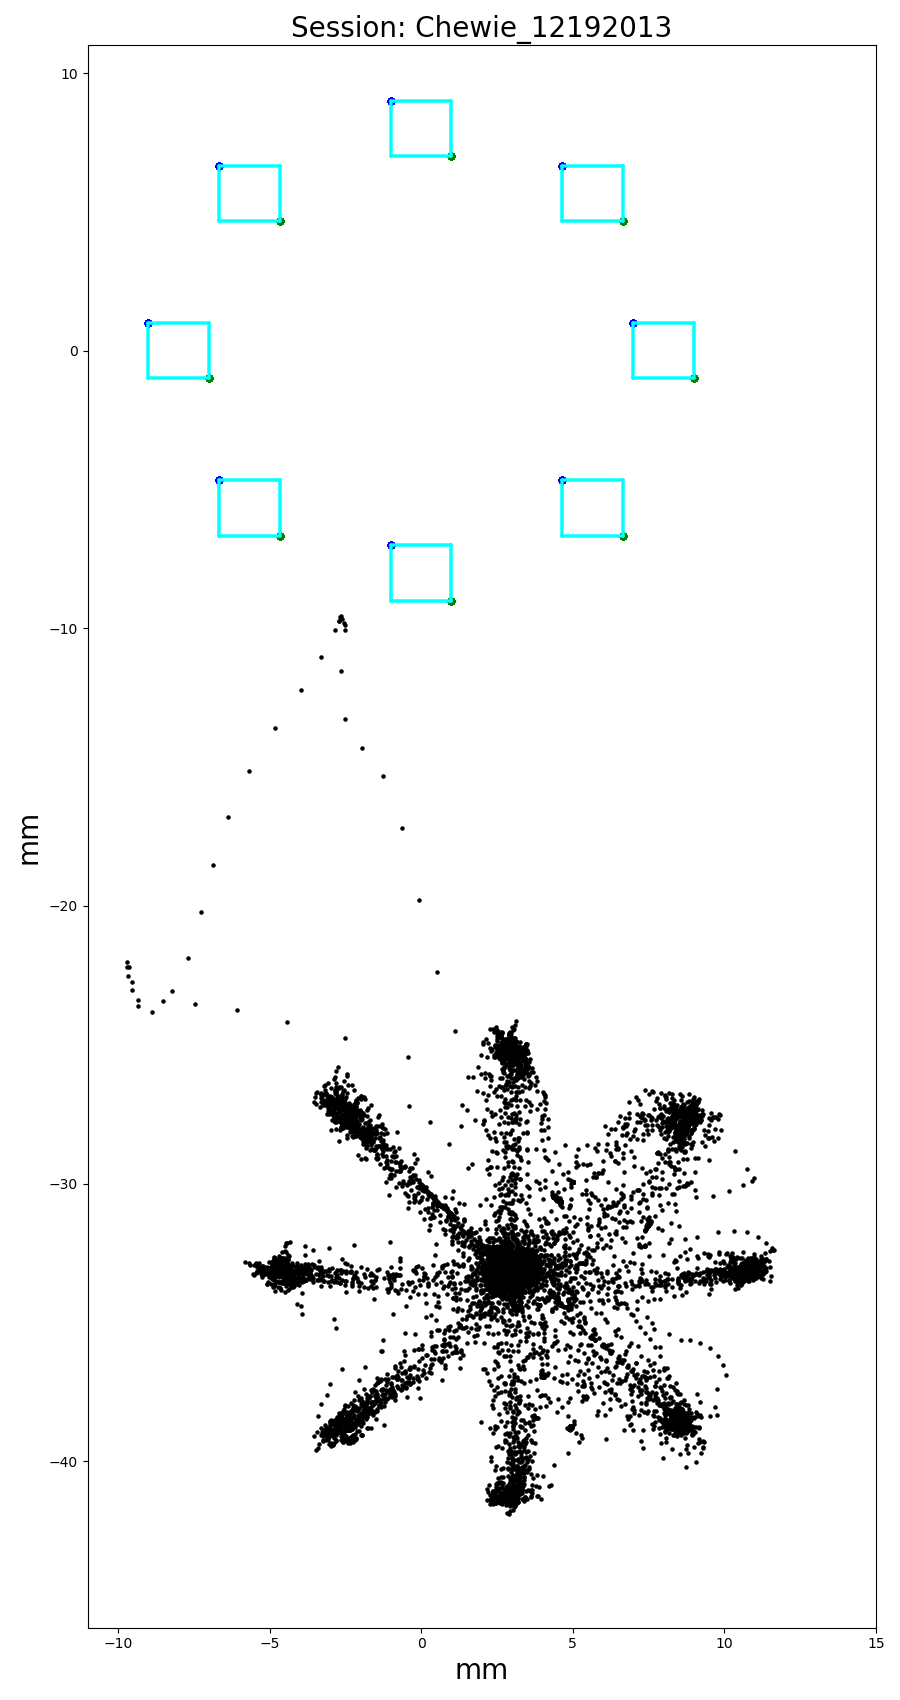
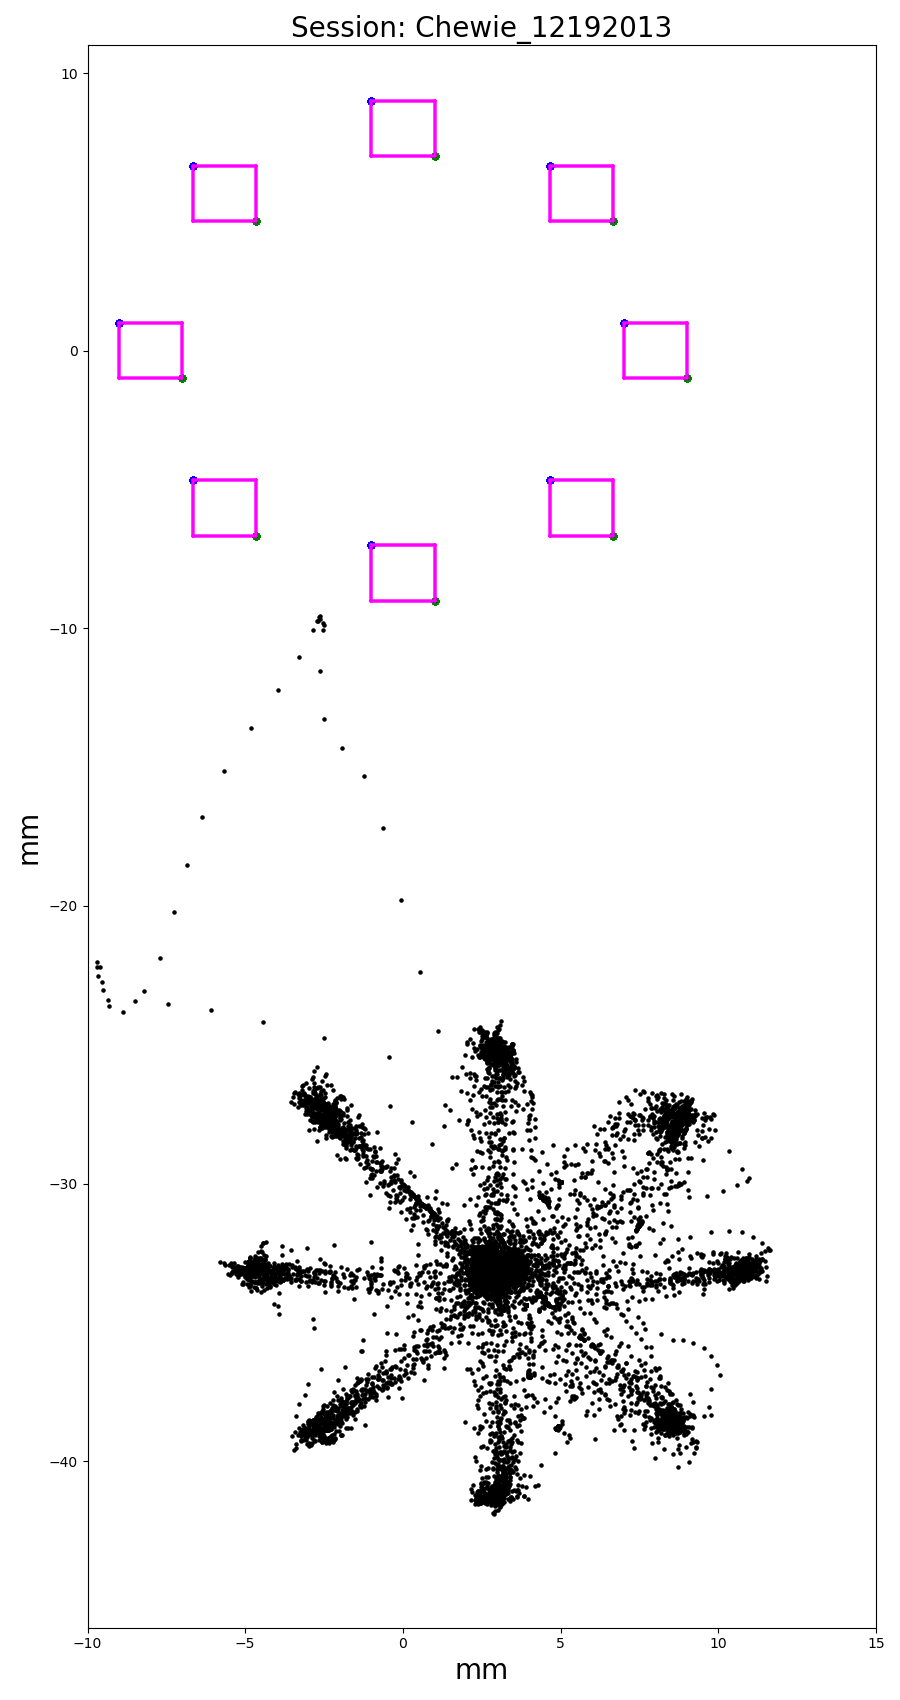
chewie

diff --git a/Python_code/Read_Chewie_file/Chewie_trajectory.py b/Python_code/Read_Chewie_file/Chewie_trajectory.py
@@ -101,13 +101,13 @@ for session_k in range(len(session_file_list)):
         x4=targets_corner[index,1]+target_grid_width
         y4=targets_corner[index,4]+target_grid_width
 
-        plt.plot( [x1,x2],[y1,y2] ,color='cyan')
-        plt.plot( [x1,x4],[y1,y4] ,color='cyan')
-        plt.plot( [x2,x3],[y2,y3] ,color='cyan')
-        plt.plot( [x3,x4],[y3,y4] ,color='cyan')
+        plt.plot( [x1,x2],[y1,y2] ,color='magenta')
+        plt.plot( [x1,x4],[y1,y4] ,color='magenta')
+        plt.plot( [x2,x3],[y2,y3] ,color='magenta')
+        plt.plot( [x3,x4],[y3,y4] ,color='magenta')
 
     plt.scatter( down_sampling_pos[:,0], down_sampling_pos[:,1], color='black' , s=5)
-    plt.xlim([-11, 15])
+    plt.xlim([-10, 15])
     plt.ylim([-46, 11])
     plt.xlabel('mm', fontsize=my_fontsize)
     plt.xticks(fontsize=my_fontsize*0.5)
